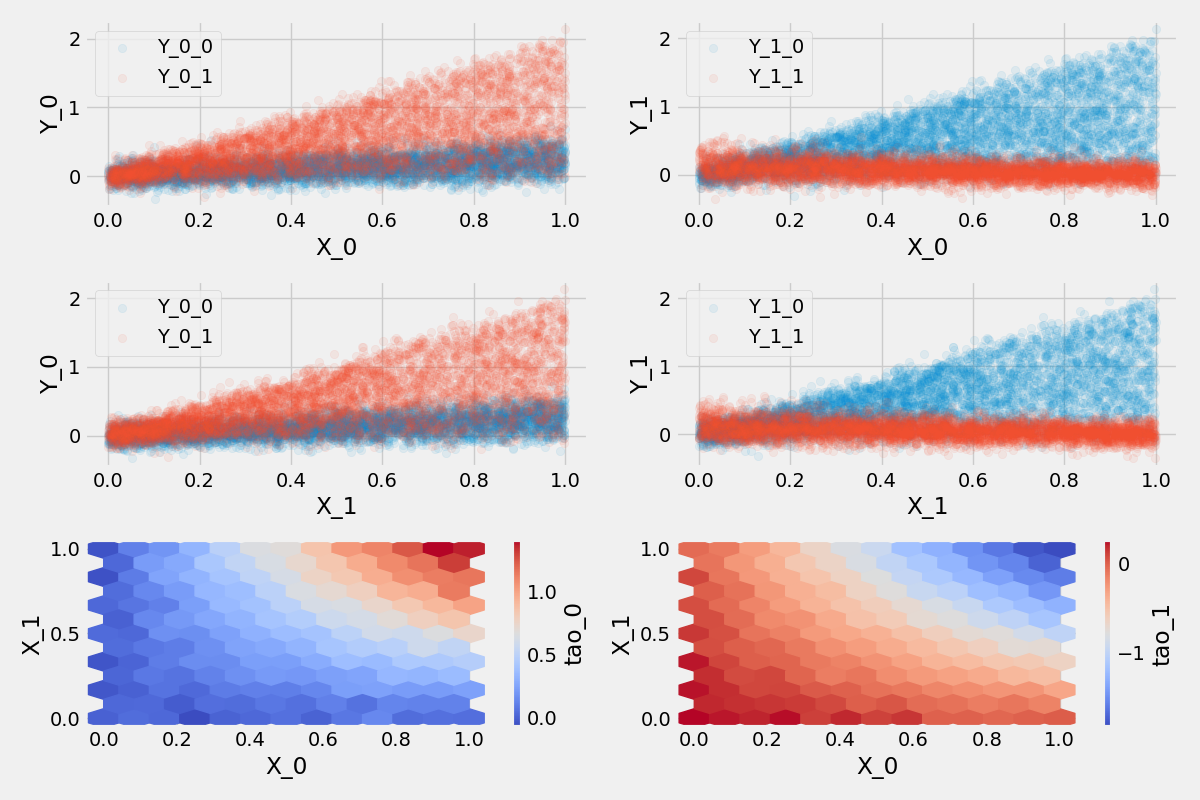
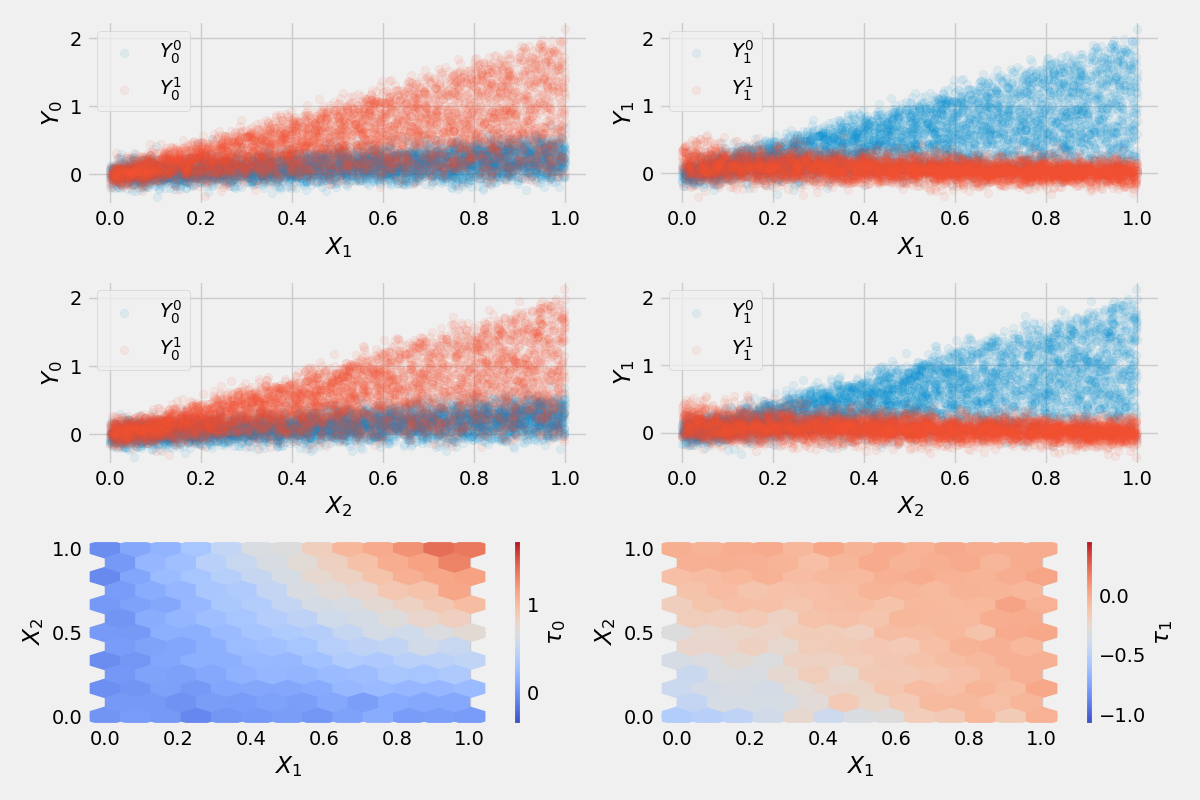
Fix effects visualization and tradeoff formulas

diff --git a/data/dataset.py b/data/dataset.py
@@ -62,6 +62,12 @@ class Dataset:
             self.tao
         ], axis=1), columns=columns)
 
+
+        self.pp_mask = (self.tao[:, 0] > 0) & (self.tao[:, 1] > 0)
+        self.mm_mask = (self.tao[:, 0] > 0) & (self.tao[:, 1] < 0)
+        self.mm_mask += (self.tao[:, 0] < 0) & (self.tao[:, 1] > 0)
+        self.nn_mask = (self.tao[:, 0] < 0) & (self.tao[:, 1] < 0)
+
     def split(self, n_splits=5) -> List[Fold]:
         # create quantization
         quantiles = pd.qcut(self.Y_obs.mean(axis=1, keepdims=False), q=self.n_quantiles).astype('str')
@@ -95,55 +101,68 @@ class Dataset:
                 if i == nrows-1:
                     im = axs[i, j].hexbin(x=self.X[:, 0], 
                                         y=self.X[:, 1], 
-                                        C=self.Y[:, j+1]-self.Y[:, j], 
-                                        gridsize=12, cmap='coolwarm'
+                                        C=self.tao[:, j], 
+                                        gridsize=12, 
+                                        cmap='coolwarm',
+                                        vmin=self.tao[:, j].min(), 
+                                        vmax=self.tao[:, j].max(), 
+                                        clim=(self.tao[:, j].min(), self.tao[:, j].max())
                     )
                     # im = axs[i, j].tricontourf(self.X[:, 0], 
                     #                         self.X[:, 1], 
                     #                         self.Y[:, j+1]-self.Y[:, j]
-                    # )    
-                    axs[i, j].set_xlabel('X_0')
-                    axs[i, j].set_ylabel('X_1')                    
-                    fig.colorbar(im, ax=axs[i, j], label=f'tao_{j}')
+                    # )
+                    axs[i, j].set_xlabel(r'$X_1$')
+                    axs[i, j].set_ylabel(r'$X_2$')
+                    fig.colorbar(im, ax=axs[i, j], label=fr'$\tau_{j}$')
                     hex_values = im.get_array().reshape(-1, 1)
                     taos.append(hex_values)
                     offsets = im.get_offsets()
                 else:
                     # sns.regplot(x=self.X[:, i], y=self.Y[:, j], ax=axs[i, j], scatter=False, label=f'Y_{j}_0')
                     # sns.regplot(x=self.X[:, i], y=self.Y[:, j+1], ax=axs[i, j], scatter=False, label=f'Y_{j}_1')
-                    axs[i, j].scatter(self.X[:, i], self.Y[:, j], alpha=alpha, label=f'Y_{j}_0')
-                    axs[i, j].scatter(self.X[:, i], self.Y[:, j+1], alpha=alpha, label=f'Y_{j}_1')
-                    axs[i, j].set_xlabel(f'X_{i}')
-                    axs[i, j].set_ylabel(f'Y_{j}')
+                    axs[i, j].scatter(self.X[:, i], self.Y[:, j], alpha=alpha, label=fr'$Y_{j}^0$')
+                    axs[i, j].scatter(self.X[:, i], self.Y[:, j+1], alpha=alpha, label=fr'$Y_{j}^1$')
+                    axs[i, j].set_xlabel(fr'$X_{i+1}$')
+                    axs[i, j].set_ylabel(fr'$Y_{j}$')
                     axs[i, j].legend()
-        
-        uplifts = np.concatenate(taos, axis=1)
-        pp = np.where((uplifts[:, 0] > 0) & (uplifts[:, 1] > 0), 1, 0)
-        mm = np.where((uplifts[:, 0] > 0) & (uplifts[:, 1] < 0), 2, 0)
-        mm += np.where((uplifts[:, 0] < 0) & (uplifts[:, 1] > 0), 2, 0)
-        nn = np.where((uplifts[:, 0] < 0) & (uplifts[:, 1] < 0), 3, 0)
-        uplifts = pp + mm + nn
 
         plt.tight_layout()
         if save_filename is not None:
             plt.savefig(save_filename)
         else:
-            plt.show()
-            print(self.X[:, 0].shape)
             plt.figure(figsize=(12, 8))
-            plt.hexbin(x=offsets[:, 0],
-                        y=offsets[:, 1],
-                        C=uplifts,
-                        gridsize=12
-            )
+            # plt.hexbin(x=offsets[:, 0],
+            #             y=offsets[:, 1],
+            #             C=uplifts,
+            #             gridsize=12
+            # )
+            plt.scatter(self.X[:, 0][self.pp_mask], self.X[:, 1][self.pp_mask], s=45, alpha=0.8, c='g', label='++')
+            plt.scatter(self.X[:, 0][self.mm_mask], self.X[:, 1][self.mm_mask], s=45, alpha=0.8, c='b', label='+-')
+            plt.scatter(self.X[:, 0][self.nn_mask], self.X[:, 1][self.nn_mask], s=45, alpha=0.8, c='r', label='--')
+            plt.xlabel(r'$X_1$')
+            plt.ylabel(r'$X_2$')
             plt.legend()
             plt.show()
 
+    def plot_clusters(self):
+        for j in range(0, ncols+1, 2):
+            tau = self.Y[:, j+1]-self.Y[:, j]
+        im = axs[i, axj].hexbin(x=self.X[:, 0], 
+                            y=self.X[:, 1], 
+                            C=tau, 
+                            gridsize=12, 
+                            cmap='coolwarm',
+                            vmin=tau.min(), 
+                            vmax=tau.max(), 
+                            clim=(tau.min(), tau.max())
+        )
+
 if __name__ == "__main__":
-    dataset = Dataset(n_rows=1000, 
+    dataset = Dataset(n_rows=5000, 
                         X_dim=2, 
                         n_responses=2, 
-                        tradeoff_type='NON_LINEAR', 
+                        tradeoff_type='LINEAR', 
                         prop_score=0.5)
 
     dataset.plot_effects()

diff --git a/tradeoffs/non_linear.py b/tradeoffs/non_linear.py
@@ -15,8 +15,8 @@ class NonLinearTradeoff(Tradeoff):
         for x in X[:, :2].T:
             mu *= self.sigmoid(x)
         
-        mu_0_0 = -0.5 * mu + 1
-        mu_0_1 = 0.5 * mu - 1
+        mu_0_0 = -0.5 * mu + 0.7
+        mu_0_1 = 0.5 * mu - 0.7
         self.mus += [mu_0_0, mu_0_1]
         Y_0_0 = (mu_0_0 + np.random.normal(0, 0.1, X.shape[0])).reshape(-1, 1)
         Y_0_1 = (mu_0_1 + np.random.normal(0, 0.1, X.shape[0])).reshape(-1, 1)
@@ -26,10 +26,10 @@ class NonLinearTradeoff(Tradeoff):
     def get_tradeoff_effect(self, X):
         mu = 1
         for x in X[:, :2].T:
-            mu *= self.sigmoid(x)
+            mu *= 2-self.sigmoid(x)
         
-        mu_d_0 = -0.5 * mu + 1
-        mu_d_1 = 0.5 * mu - 1
+        mu_d_0 = 0.5 * mu - 0.7
+        mu_d_1 = -0.5 * mu + 0.7
         Y_d_0 = (mu_d_0 + np.random.normal(0, 0.1, X.shape[0])).reshape(-1, 1)
         Y_d_1 = (mu_d_1 + np.random.normal(0, 0.1, X.shape[0])).reshape(-1, 1)
 

diff --git a/tradeoffs/linear.py b/tradeoffs/linear.py
@@ -14,8 +14,8 @@ class LinearTradeoff(Tradeoff):
         for x in X[:, :2].T:
             mu *= self.linear(x)
         
-        mu_0_0 = 0.5*mu
-        mu_0_1 = 2*mu
+        mu_0_0 = -mu + 0.7
+        mu_0_1 = mu - 0.7
         self.mus += [mu_0_0, mu_0_1]
         Y_0_0 = (mu_0_0 + np.random.normal(0, 0.1, X.shape[0])).reshape(-1, 1)
         Y_0_1 = (mu_0_1 + np.random.normal(0, 0.1, X.shape[0])).reshape(-1, 1)
@@ -27,8 +27,8 @@ class LinearTradeoff(Tradeoff):
         for x in X.T:
             mu *= 1-self.linear(x)
         
-        mu_d_0 = 0.5 * mu
-        mu_d_1 = -0.5 * mu
+        mu_d_0 = mu - 0.7
+        mu_d_1 = -mu + 0.7
         Y_d_0 = (mu_d_0 + np.random.normal(0, 0.1, X.shape[0])).reshape(-1, 1)
         Y_d_1 = (mu_d_1 + np.random.normal(0, 0.1, X.shape[0])).reshape(-1, 1)
 
